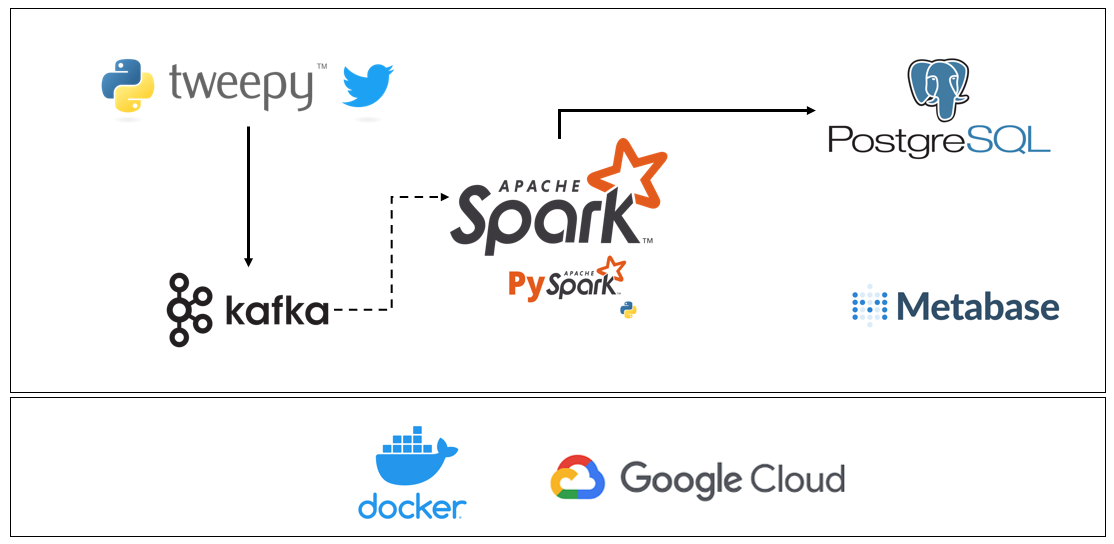
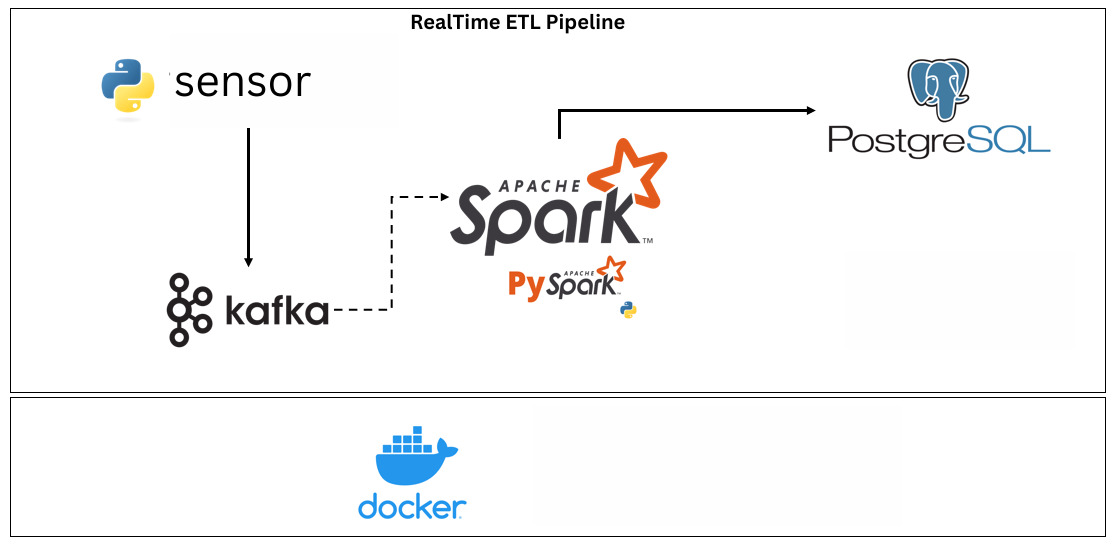
updated the project image according to real project

diff --git a/static/styles.css b/static/styles.css
@@ -201,20 +201,20 @@ header .header-social-links {
 
 .project-info h3 {
     font-size: 1.8rem;
-    color: #444;
+    color: #ffffff;
     margin-bottom: 0.5rem;
 }
 
 .project-info p {
     font-size: 1rem;
-    color: #666;
+    color: #fffefe;
     margin-bottom: 1.5rem;
 }
 
 .project-link {
     display: inline-block;
     background-color: #007bff;
-    color: #1a1717;
+    color: #ffffff;
     padding: 0.7rem 1.5rem;
     border-radius: 5px;
     text-decoration: none;
